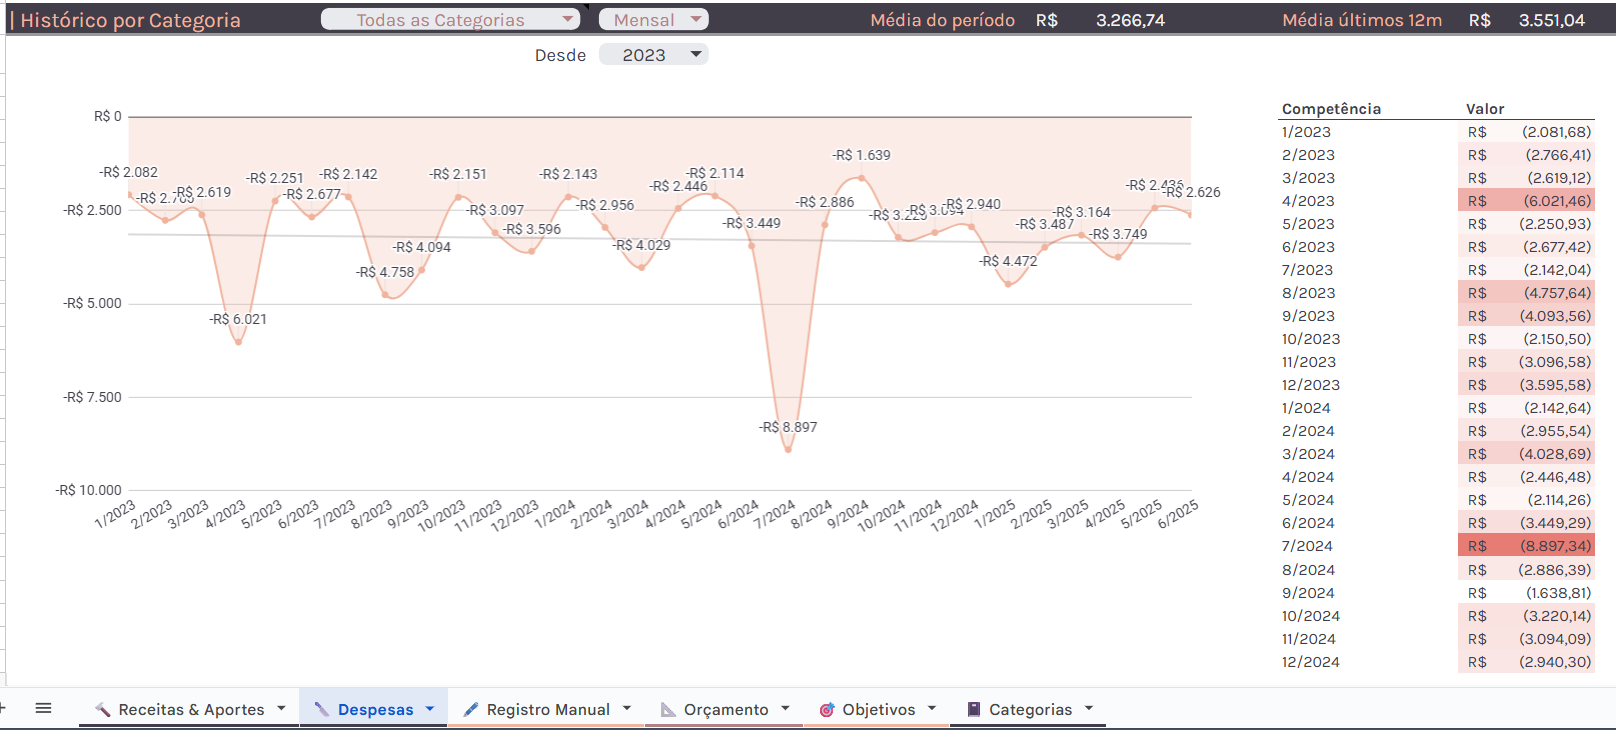
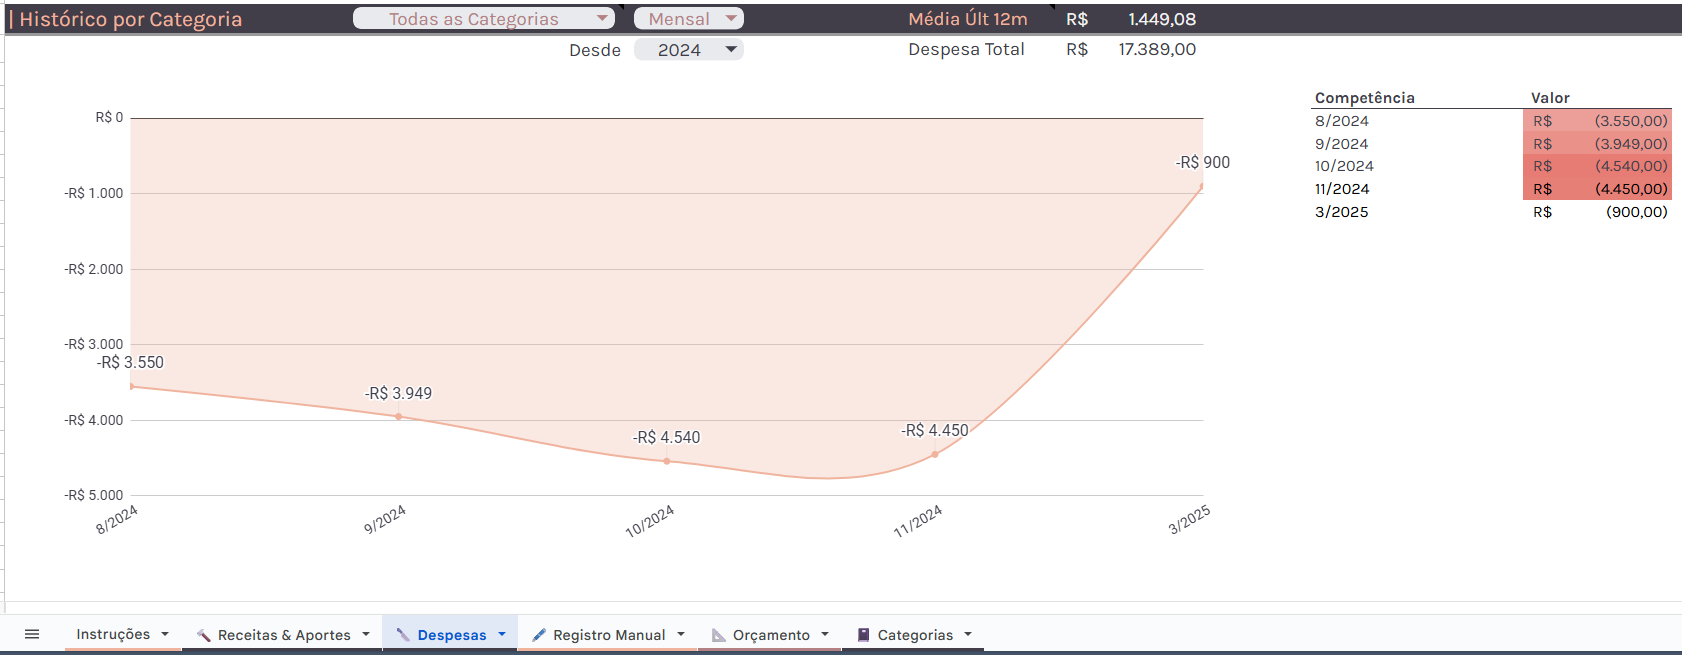
:wrench: atualizei algumas imagens e textos do README

diff --git a/README.md b/README.md
@@ -1,17 +1,18 @@
 # 💵 Controle Financeiro
-### Repositório destinado ao armazenamento e compartilhamento da planilha que desenvolvi para controle financeiro.
-Em breve pretendo compartilhar por aqui também uma planilha para 🏰 Alocação de Carteira
+### Repositório destinado ao compartilhamento da planilha de controle financeiro que desenvolvi.
+Em breve, pretendo compartilhar por aqui também minha planilha para 🏰 Alocação de Carteira, que auxilia na visualização e acompanhamento de uma carteira de investimentos.
 
 ### 💵 [Controle Financeiro](https://docs.google.com/spreadsheets/d/1TmSb_tLtEbiT6hjnSSyqmya5RT-hz97dbnttdzspeLw/copy?usp=drive_link)
 
-#### Planilha para acompanhar receitas, despesas e saldo mensal, bem como aportes e resgates em investimentos, tudo de forma visual e simples.
+#### Planilha para acompanhamento de Receitas, Despesas e Saldo Mensal, bem como Aportes e Resgates em investimentos, tudo de forma visual e simples.
 
-Clique no link acima para fazer uma cópia da planilha. Fique à vontade para usar no seu dia a dia, como apoio na organização das suas finanças e investimentos.	
+É uma planilha de Google Sheets. Fique à vontade para clicar no link acima para fazer uma cópia e usar no seu dia a dia, como apoio na organização das suas finanças e investimentos.	
 
 ####
 
 ### Como começar: 														
-💡	Apenas as células pintadas de amarelo são editáveis manualmente. As demais podem ser compostas por fórmulas, então não as edite.									
+![Imagem não carregada](images/instrucao_01.png)
+
 #### ➯ 1. Defina as categorias 
     Defina as categorias que você utilizará para descrever as movimentações das suas contas na aba📓 Categorias.
 
@@ -21,7 +22,7 @@ Clique no link acima para fazer uma cópia da planilha. Fique à vontade para us
 #### ➯ 2. Defina um orçamento mensal 
     Defina um orçamento mensal a ser perseguido na aba 📐 Orçamento.
 
-    Em 📐 Orçamento, defina um valor para cada categoria e acompanhe mensalmente se os seus gastos padrão acompanharam este orçamento objetivo.
+    Em 📐 Orçamento, defina um valor para cada categoria e acompanhe mensalmente se os seus gastos acompanharam este orçamento objetivo.
 
     Gastos extratordinários não devem ser registrados nesta aba, mas apenas os gastos fixos, que você tem previsibilidade. O objetivo aqui é acompanhar o seu orçamento com gastos fixos.
 #### ➯ 3. Comece a lançar as movimentações
@@ -30,11 +31,12 @@ Clique no link acima para fazer uma cópia da planilha. Fique à vontade para us
     Regitre todas as suas Receitas e Despesas, bem como Aportes na aba de 🖋 Registro Manual, seguindo as cetegorias definidas.	
 
 #### ➯ 4. Acompanhe suas Receitas, Despesas e Investimentos
-    Veja em gráficos mensais e anuais a relação das suas Receitas e seus Investimentos na aba 🔨 Receitas & Aportes, e as suas Despesas na aba 🔪 Despesas  
+    Veja em gráficos mensais e anuais a relação das suas Receitas e seus Investimentos na aba 🔨 Receitas & Aportes, e das suas Despesas na aba 🔪 Despesas.
   				
 ####
+Confira abaixo orientações mais detalhadas sobre a utilização de cada aba da planilha.
 
-## Entenda a como cada aba da planilha funciona
+## Entenda como cada aba da planilha funciona
 ### Aba 🖋 Registro Manual						
 ➯ A planilha funciona com uma lógica de Fluxo de Caixa. Entradas na conta devem ser registrados como valores positivos, e saídas como valores negativos.
 
@@ -42,18 +44,29 @@ Clique no link acima para fazer uma cópia da planilha. Fique à vontade para us
 
 ➯ Todos os valores referentes a investimentos, sejam aportes ou resgates, devem ser registrados na categoria Aporte, utilizando valores positivos para os aportes e negativos para os resgates.
 
+    Lembrando que:
+    Aporte = valor enviado à corretora para investir
+    Resgate = valor resgatado da corretora
+
 ➯ Utilize valores positivos e negativos para abater valores recebidos. Por exemplo, se um amigo está te pagando de volta por uma refeição que você pagou, regitre esse valor positivo (pois é uma entrada de caixa), com a categoria Refeição. Assim, vai ser reflertido corretamente o valor de Refeição que você gastou no mês, na abba de 🔪 Despesas.
 
+![Imagem não carregada](images/registro_manual.png)
+
 ### Aba 🔨 Receitas & Aportes						
-➯ Este painel mostra uma relação entre as suas Receitas e seus Aportes ao longo do tempo, bem como uma relação entre os seus Aportes e o Saldo da sua conta mensalmente (Receitas - Despesas dentro do mês).		
+➯ O painel superior esquerdo mostra a relação Receitas / Aportes no mês selecionado. O da direita mostra a relação Receitas / Saldo das suas finanças mensalmente (Receitas - Despesas dentro do mês).	
 
 ![Imagem não carregada](images/receitas_e_aportes.png)
 
-### Aba 🔪 Despesas						
-➯ Este painel mostra as suas despesas. É possível visualizar períodos mensais ou anuais, e também, no painel inferior, o histórico de despesas por categoria.	
+➯ Mais abaixo, outros painéis mostram a relação Receita / Aportes anualmente e também nos últimos 12 meses:
+![Imagem não carregada](images/receitas_e_aportes_anual.png)
 
+![Imagem não carregada](images/receitas_e_aportes_12_meses.png)
+
+### Aba 🔪 Despesas						
+➯ O painel superior mostra as suas despesas por categoria em determinado mês ou ano:
 ![Imagem não carregada](images/historico_de_despesas.png)
 
+➯ O painel inferior mostra o histórico de despesas, por categoria, ou então um histórico de "Todas as Categorias" somadas, para acompanhar o seu custo de vida:
 ![Imagem não carregada](images/despesas_por_categoria.png)
 						
 ### Aba 📐 Orçamento						
